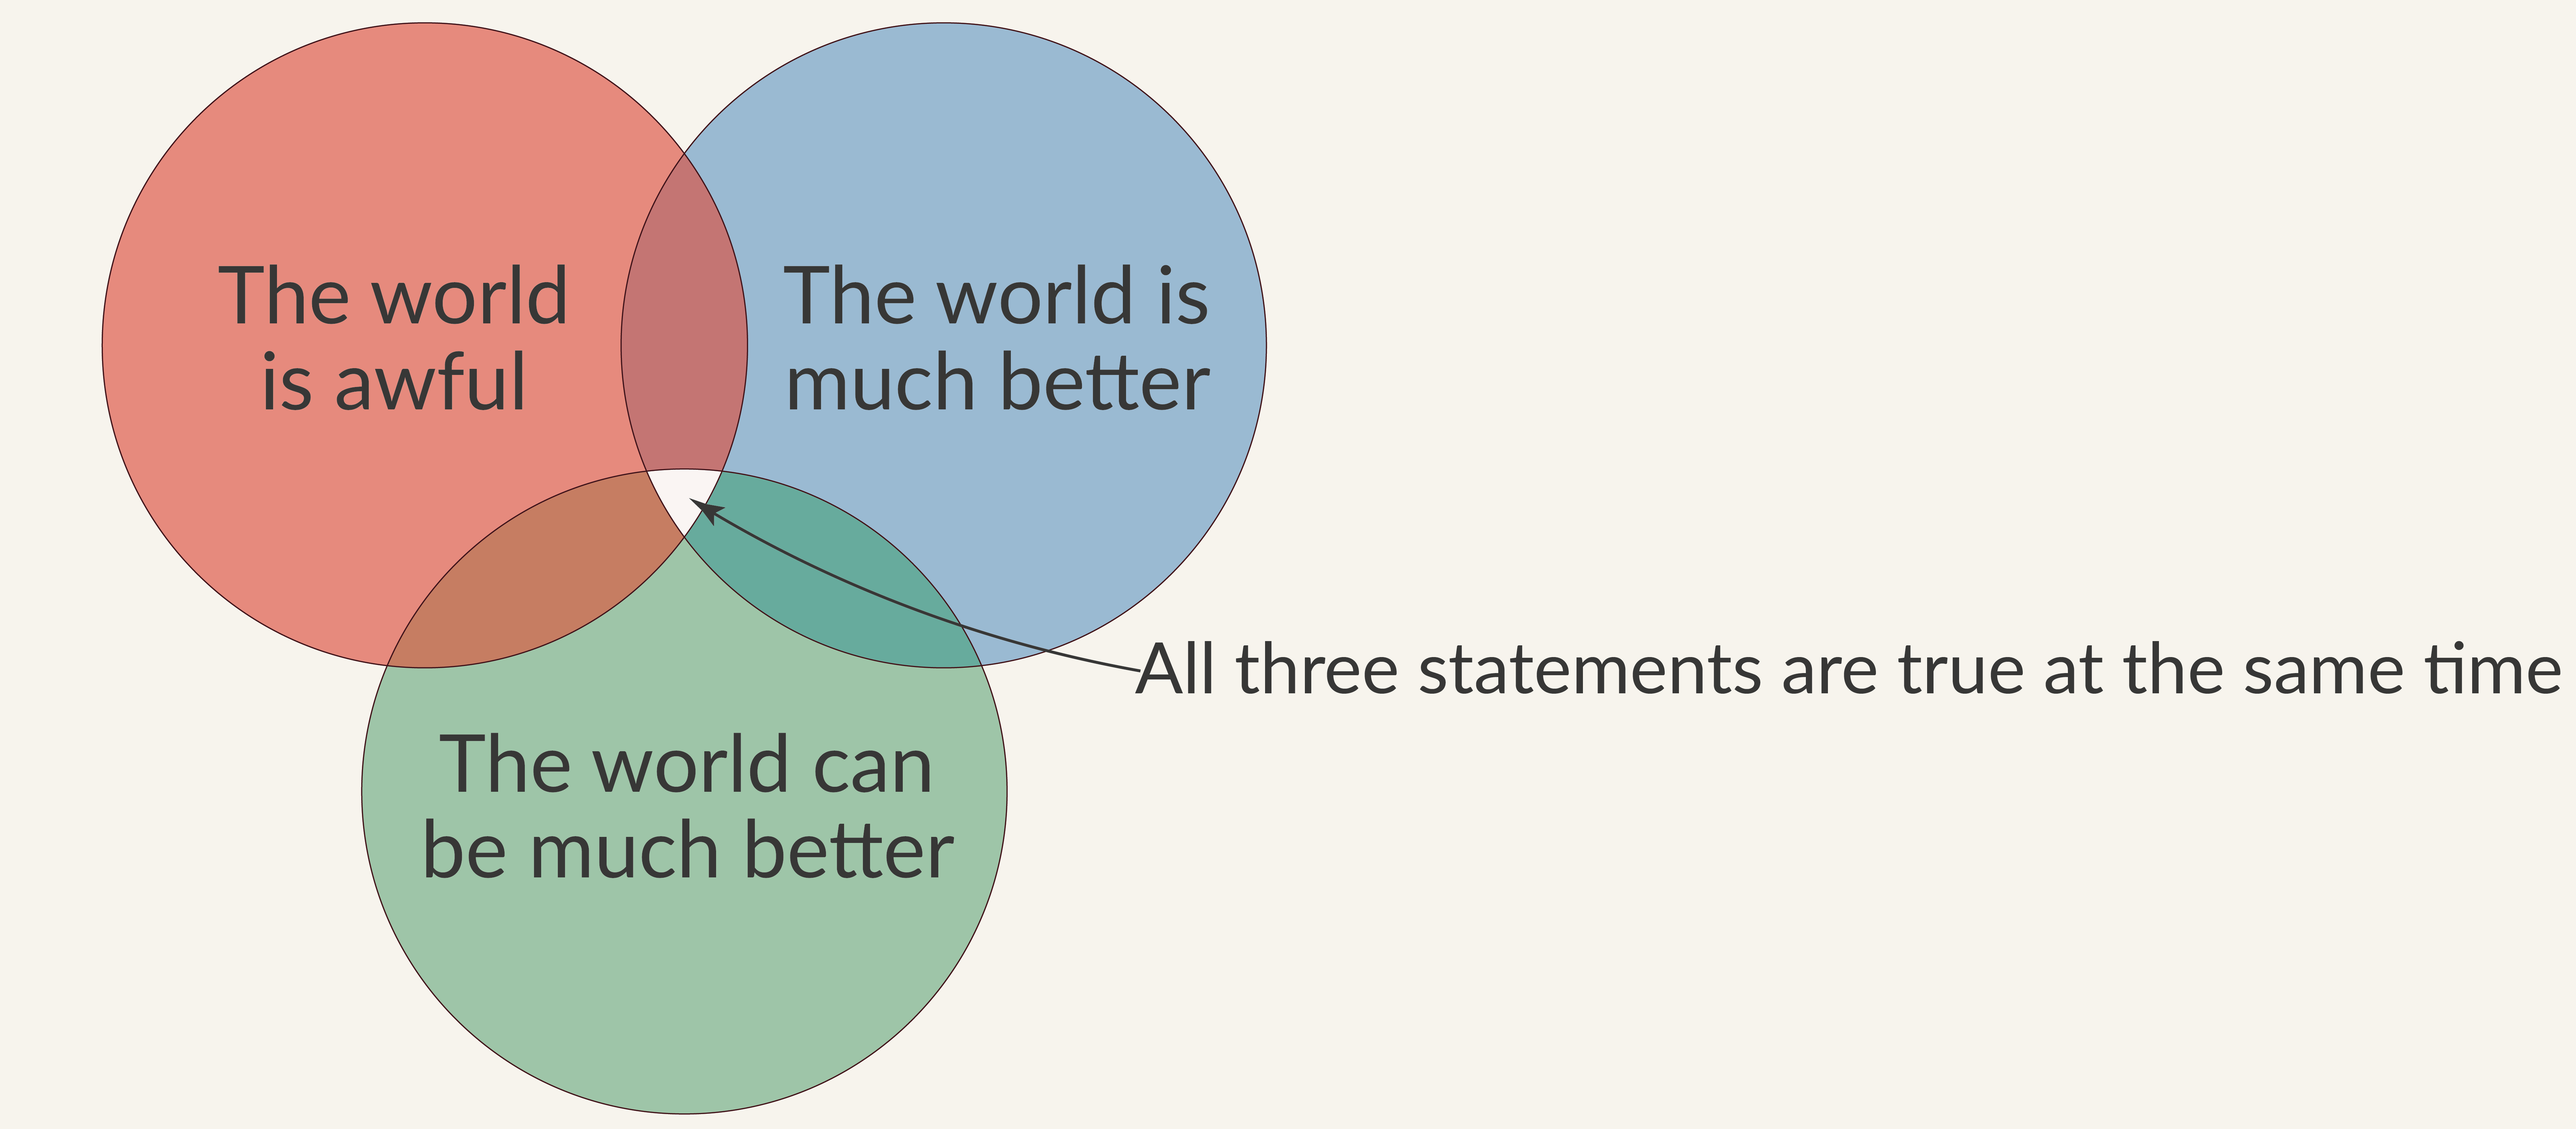
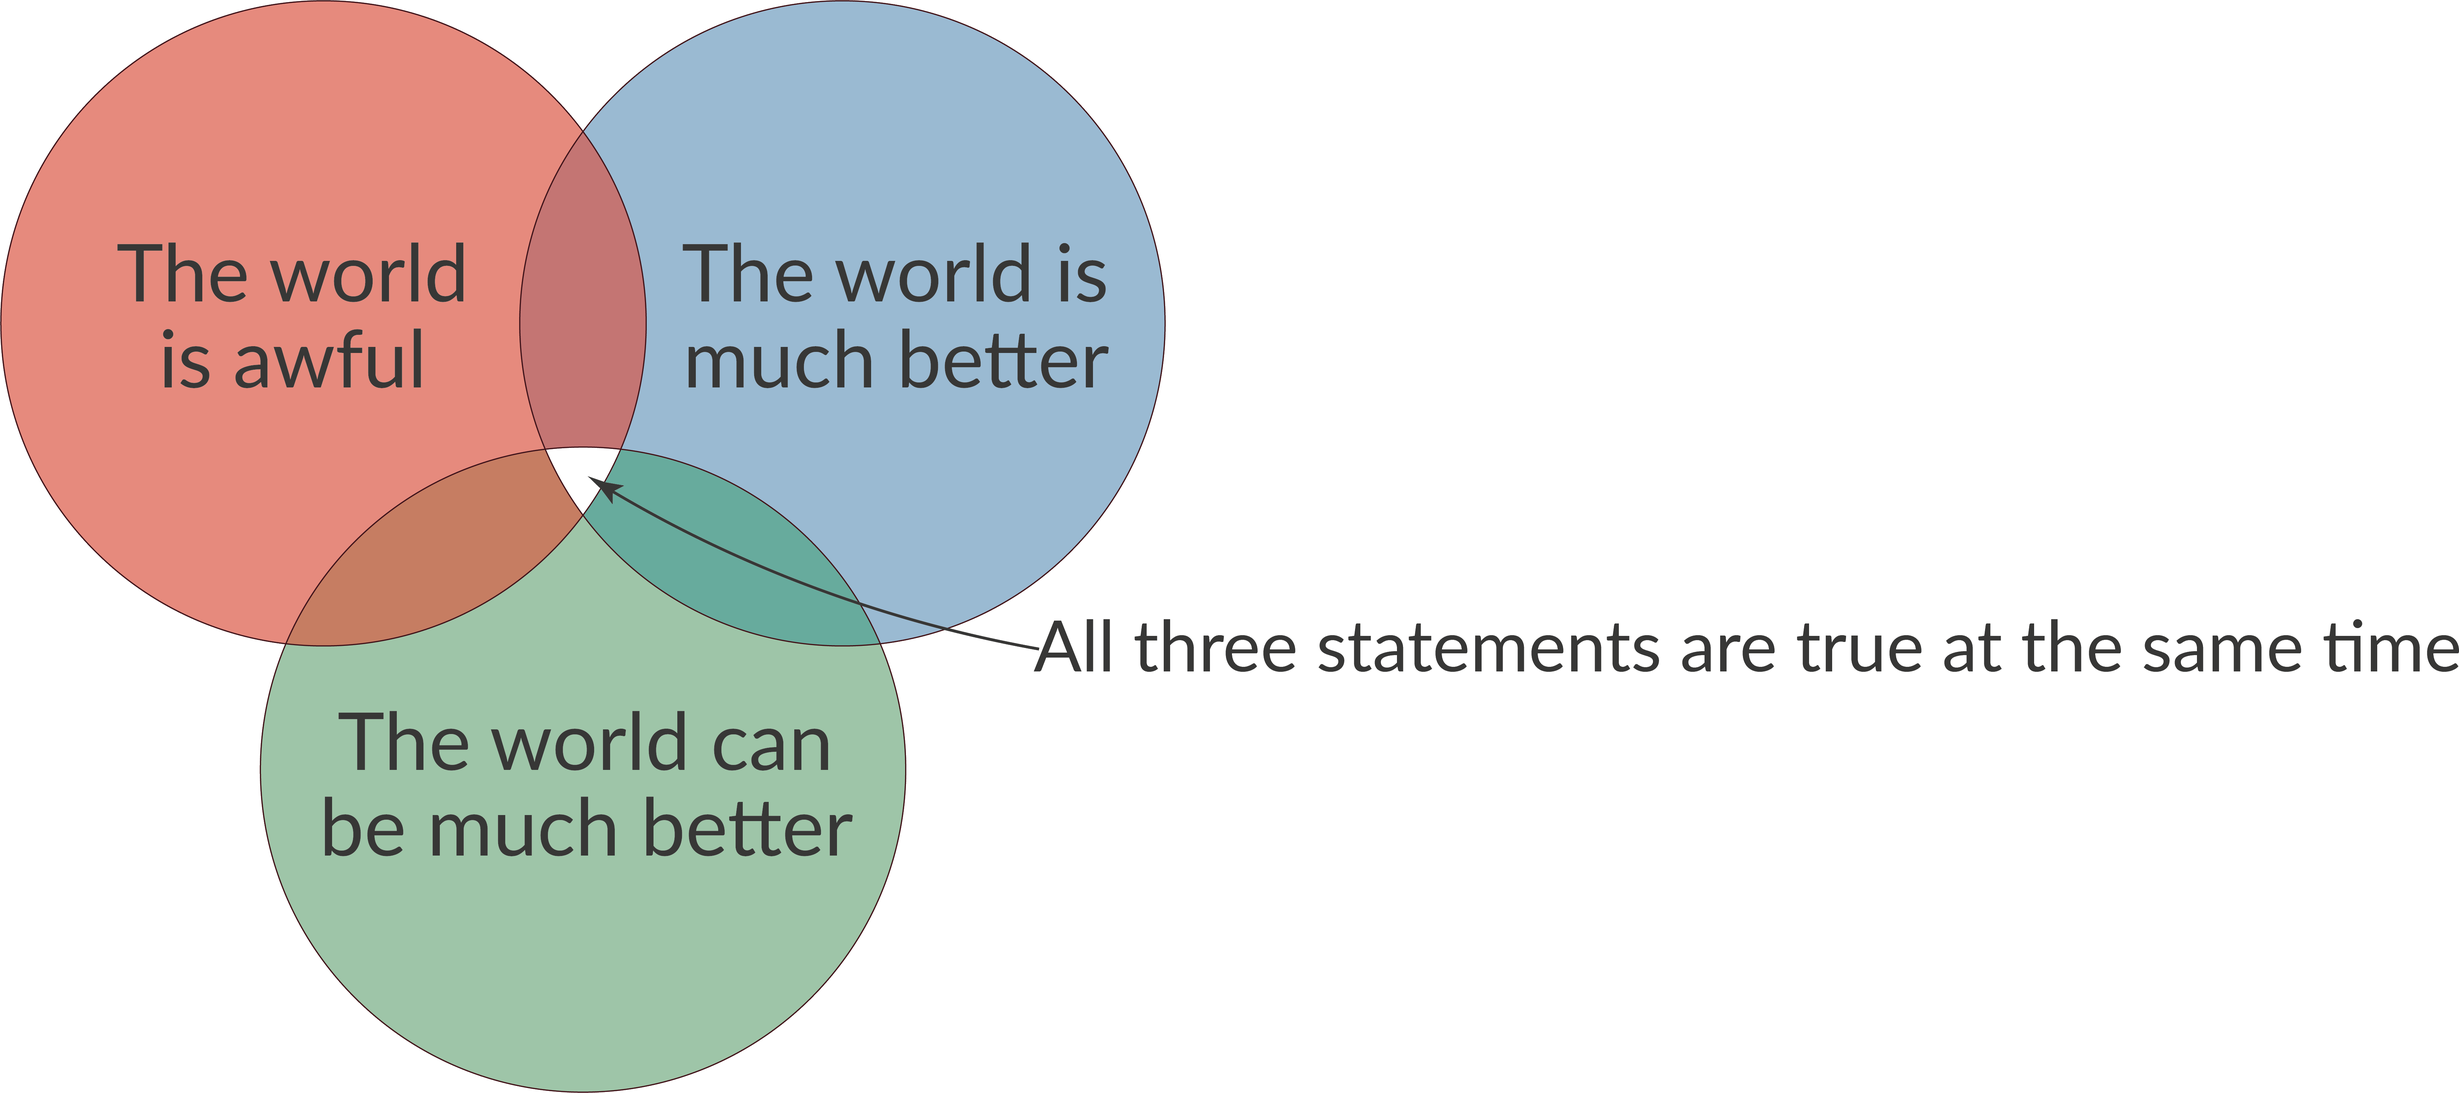
Polish layout spacing, typography, and visual consistency
Reduce inter-section gaps, standardize container widths and padding
across nav/hero/main/footer, normalize body text size via main
element inheritance, remove transparent background from Venn diagram,
standardize card backgrounds, increase footer text size, and clean
up redundant utility classes.

Changed region(s): [[0.0, 0.0, 1.0, 1.0]]

diff --git a/src/App.tsx b/src/App.tsx
@@ -23,7 +23,7 @@ export default function App() {
     <div className="min-h-screen bg-eaa-warm-100 font-sans text-eaa-neutral-950 selection:bg-eaa-teal-900 selection:text-white">
       {/* Navigation */}
       <header className="w-full bg-eaa-warm-50 relative z-50">
-        <nav className="max-w-6xl mx-auto px-8 py-4 flex justify-between items-center">
+        <nav className="max-w-7xl mx-auto px-6 lg:px-16 py-4 flex justify-between items-center">
           <div className="flex items-center">
             <a href={siteContent.links.mainWebsite} target="_blank" rel="noopener noreferrer">
               <img 
@@ -64,7 +64,7 @@ export default function App() {
           <div className="absolute inset-0 bg-gradient-to-r from-eaa-warm-100 from-40% md:from-30% lg:from-20% via-eaa-warm-100/60 to-transparent w-full"></div>
         </div>
 
-        <div className="relative z-10 max-w-6xl mx-auto px-8 w-full">
+        <div className="relative z-10 max-w-7xl mx-auto px-6 lg:px-16 w-full">
           <motion.div 
             initial={{ opacity: 0, y: 20 }}
             animate={{ opacity: 1, y: 0 }}
@@ -103,7 +103,7 @@ export default function App() {
       </section>
 
       {/* Main Content */}
-      <main className="max-w-4xl mx-auto px-8 py-24 space-y-32">
+      <main className="max-w-7xl mx-auto px-6 lg:px-16 py-24 space-y-24 text-lg md:text-xl leading-relaxed text-eaa-neutral-950">
         
         {/* The Gap Section */}
         <motion.section 
@@ -111,44 +111,42 @@ export default function App() {
           whileInView={{ opacity: 1, y: 0 }}
           viewport={{ once: true, margin: "-100px" }}
           transition={{ duration: 0.8 }}
-          className="space-y-8 py-12"
+          className="space-y-8"
         >
-          <div className="space-y-12 text-lg md:text-2xl leading-relaxed max-w-3xl">
-            <div className="space-y-8">
-              <div className="flex flex-col items-center md:items-start text-center md:text-left">
-                <Quote className="w-12 h-12 text-eaa-bronze-500 opacity-20 scale-x-[-1] mb-4" />
-                <h2 className="font-serif text-eaa-teal-900 text-3xl md:text-4xl leading-tight">
-                  {siteContent.theGap.quote}
-                </h2>
-              </div>
-              
-              <div className="py-4">
-                <img 
-                  src={awfulBetter} 
-                  alt="Venn diagram: The world is awful, The world is much better, The world can be much better" 
-                  className="w-full max-w-2xl mx-auto"
-                />
-              </div>
-
-              <div className="text-base md:text-lg text-eaa-neutral-950/70">
-                — {siteContent.theGap.citationAuthor},{" "}
-                <span className="italic">
-                  {siteContent.theGap.citationTitle}
-                </span>{" "}
-                <a
-                  href={siteContent.theGap.citationLink}
-                  target="_blank"
-                  rel="noopener noreferrer"
-                  className="underline decoration-1 underline-offset-4 hover:text-eaa-teal-700 transition-colors"
-                >{siteContent.theGap.citationSource}</a>
-              </div>
+          <div className="bg-white py-10 px-12 border border-eaa-warm-200 space-y-8">
+            <div className="flex flex-col items-center text-center">
+              <Quote className="w-12 h-12 text-eaa-bronze-500 opacity-20 scale-x-[-1] mb-4 self-start" />
+              <h2 className="font-serif text-eaa-teal-900 text-3xl md:text-4xl leading-tight">
+                The world is awful. The world is much better.<br />The world can be much better.
+              </h2>
             </div>
 
-            <div
-              className="text-eaa-neutral-950 space-y-6 text-base md:text-lg [&_p]:leading-relaxed"
-              dangerouslySetInnerHTML={{ __html: `<p>${siteContent.theGap.paragraphHtml}</p>` }}
-            />
+            <div className="py-4">
+              <img
+                src={awfulBetter}
+                alt="Venn diagram: The world is awful, The world is much better, The world can be much better"
+                className="w-full max-w-2xl mx-auto"
+              />
+            </div>
+
+            <div className="text-lg text-eaa-neutral-950/70 text-center">
+              — {siteContent.theGap.citationAuthor},{" "}
+              <span className="italic">
+                {siteContent.theGap.citationTitle}
+              </span>{" "}
+              <a
+                href={siteContent.theGap.citationLink}
+                target="_blank"
+                rel="noopener noreferrer"
+                className="underline decoration-1 underline-offset-4 hover:text-eaa-teal-700 transition-colors"
+              >{siteContent.theGap.citationSource}</a>
+            </div>
           </div>
+
+          <div
+            className="space-y-6"
+            dangerouslySetInnerHTML={{ __html: `<p>${siteContent.theGap.paragraphHtml}</p>` }}
+          />
         </motion.section>
 
         {/* The Syllabus Section */}
@@ -163,9 +161,7 @@ export default function App() {
           <div className="grid md:grid-cols-2 gap-12 items-center">
             <div className="space-y-6">
               <h2 className="font-serif text-3xl md:text-4xl text-eaa-teal-900">{siteContent.theSyllabus.title}</h2>
-              <p className="text-lg md:text-xl leading-relaxed">
-                {siteContent.theSyllabus.description1}
-              </p>
+              <p>{siteContent.theSyllabus.description1}</p>
             </div>
             <div className="aspect-[4/3] overflow-hidden bg-eaa-warm-200">
               <img 
@@ -176,21 +172,20 @@ export default function App() {
             </div>
           </div>
 
-          <div className="bg-white p-8 border border-eaa-warm-200">
+          <div className="bg-white py-10 px-12 border border-eaa-warm-200">
             <h3 className="font-serif text-2xl text-eaa-teal-900 mb-6">{siteContent.theSyllabus.topicsTitle}</h3>
-            <ul className="grid md:grid-cols-2 gap-x-12 gap-y-4 text-lg">
+            <ul className="grid md:grid-cols-2 gap-x-12 gap-y-4 list-disc marker:text-eaa-bronze-500 pl-6">
               {siteContent.theSyllabus.topics.map((topic, i) => (
-                <li key={i} className="flex items-start gap-3">
-                  <span className="text-eaa-bronze-500 mt-1.5">•</span>
-                  <span>{topic}</span>
+                <li key={i}>
+                  {topic}
                 </li>
               ))}
             </ul>
           </div>
 
           <div className="space-y-4">
-            <p className="text-lg leading-relaxed [&_a]:underline [&_a]:underline-offset-4 [&_a]:text-eaa-teal-900 [&_a]:hover:text-eaa-teal-700 [&_a]:transition-colors" dangerouslySetInnerHTML={{ __html: siteContent.theSyllabus.curriculumCreditHtml }} />
-            <p className="text-eaa-neutral-950">{siteContent.theSyllabus.description2}</p>
+            <p className="[&_a]:underline [&_a]:underline-offset-4 [&_a]:text-eaa-teal-900 [&_a]:hover:text-eaa-teal-700 [&_a]:transition-colors" dangerouslySetInnerHTML={{ __html: siteContent.theSyllabus.curriculumCreditHtml }} />
+            <p>{siteContent.theSyllabus.description2}</p>
           </div>
         </motion.section>
 
@@ -205,20 +200,20 @@ export default function App() {
           <hr className="border-eaa-warm-200" />
           <h2 className="font-serif text-3xl md:text-4xl text-eaa-teal-900">{siteContent.howItWorks.title}</h2>
           
-          <div className="grid md:grid-cols-3 gap-8">
+          <div className="grid md:grid-cols-3 gap-12">
             {siteContent.howItWorks.steps.map((item) => (
               <div key={item.step} className="flex flex-col items-center text-center space-y-4">
                 <div className="w-12 h-12 rounded-full bg-eaa-teal-900 text-white flex items-center justify-center text-lg font-bold font-serif">
                   {item.step}
                 </div>
                 <h4 className="font-serif text-xl font-bold text-eaa-teal-900">{item.title}</h4>
-                <p className="text-eaa-neutral-950">{item.desc}</p>
+                <p>{item.desc}</p>
               </div>
             ))}
           </div>
 
           {siteContent.howItWorks.note && (
-            <p className="text-center text-eaa-neutral-950 italic">
+            <p className="text-center italic">
               {siteContent.howItWorks.note}
             </p>
           )}
@@ -236,7 +231,7 @@ export default function App() {
           <div className="grid md:grid-cols-2 gap-12 items-center">
             <div className="space-y-8">
               <h2 className="font-serif text-3xl md:text-4xl text-eaa-teal-900">{siteContent.whosBehindThis.title}</h2>
-              <div className="space-y-6 text-lg text-eaa-neutral-950 leading-relaxed [&_a]:underline [&_a]:underline-offset-4 [&_a]:text-eaa-teal-900 [&_a]:hover:text-eaa-teal-700 [&_a]:transition-colors">
+              <div className="space-y-6 [&_a]:underline [&_a]:underline-offset-4 [&_a]:text-eaa-teal-900 [&_a]:hover:text-eaa-teal-700 [&_a]:transition-colors">
                 {siteContent.whosBehindThis.paragraphsHtml.map((html, i) => (
                   <p key={i} dangerouslySetInnerHTML={{ __html: html }} />
                 ))}
@@ -262,7 +257,7 @@ export default function App() {
           className="space-y-12"
         >
           <hr className="border-eaa-warm-200" />
-          <div className="bg-eaa-warm-50 p-4 sm:p-8 md:p-12 border border-eaa-warm-200 overflow-hidden grid md:grid-cols-2 gap-12 items-center">
+          <div className="bg-white p-4 sm:p-8 md:p-12 border border-eaa-warm-200 overflow-hidden grid md:grid-cols-2 gap-12 items-center">
             <div className="aspect-square overflow-hidden bg-eaa-warm-200">
               <img 
                 src={photoKevin} 
@@ -309,7 +304,7 @@ export default function App() {
                 {siteContent.whatComesNext.items.map((item, i) => (
                   <li key={i} className="flex items-start gap-4">
                     <div className="mt-1.5 w-1.5 h-1.5 rounded-full bg-eaa-bronze-500 shrink-0" />
-                    <p className="text-lg leading-relaxed">
+                    <p>
                       {item.link ? (
                         <a href={item.link} target="_blank" rel="noopener noreferrer" className="text-eaa-teal-900 font-bold underline underline-offset-4 hover:text-eaa-teal-700 transition-colors">
                           {item.title}
@@ -338,7 +333,6 @@ export default function App() {
           whileInView={{ opacity: 1, y: 0 }}
           viewport={{ once: true, margin: "-100px" }}
           transition={{ duration: 0.8 }}
-          className="pt-16"
         >
           <div className="bg-eaa-teal-900 text-white p-8 md:p-16 rounded-sm shadow-xl text-center space-y-8">
             <div className="space-y-4">
@@ -368,7 +362,7 @@ export default function App() {
           whileInView={{ opacity: 1, y: 0 }}
           viewport={{ once: true, margin: "-100px" }}
           transition={{ duration: 0.8 }}
-          className="space-y-12 pb-12"
+          className="space-y-12"
         >
           <hr className="border-eaa-warm-200" />
           <h2 className="font-serif text-3xl md:text-4xl text-eaa-teal-900">{siteContent.faq.title}</h2>
@@ -390,7 +384,7 @@ export default function App() {
                       exit={{ height: 0, opacity: 0 }}
                       transition={{ duration: 0.3 }}
                     >
-                      <div className="px-6 pb-6 text-eaa-neutral-950 leading-relaxed">
+                      <div className="px-6 pb-6 leading-relaxed">
                         {faq.a}
                       </div>
                     </motion.div>
@@ -401,7 +395,7 @@ export default function App() {
           </div>
         </motion.section>
 
-        <p className="text-center text-eaa-neutral-950/70 pb-24">
+        <p className="text-center text-eaa-teal-900 font-medium py-6 border-t border-b border-eaa-warm-200">
           {siteContent.contact.text}{" "}
           <a href={`mailto:${siteContent.contact.email}`} className="underline underline-offset-4 hover:text-eaa-teal-700 transition-colors">
             {siteContent.contact.email}
@@ -424,11 +418,11 @@ export default function App() {
       </div>
 
       {/* Footer */}
-      <footer className="bg-eaa-neutral-700 text-eaa-neutral-200">
-        <div className="max-w-6xl mx-auto px-8 py-16">
+      <footer className="bg-eaa-neutral-700 text-eaa-neutral-200 text-base md:text-lg">
+        <div className="max-w-7xl mx-auto px-6 lg:px-16 py-16">
           <div className="grid grid-cols-1 md:grid-cols-3 gap-12 lg:gap-16">
             {/* Left column: Logo + legal */}
-            <div className="space-y-8">
+            <div className="space-y-12">
               <a href={siteContent.links.mainWebsite} target="_blank" rel="noopener noreferrer">
                 <img
                   src={logoWhite}
@@ -437,7 +431,7 @@ export default function App() {
                 />
               </a>
               <p
-                className="text-xs text-eaa-neutral-200/70 leading-relaxed [&_a]:underline [&_a]:underline-offset-2 [&_a]:hover:text-white [&_a]:transition-colors"
+                className="text-sm text-eaa-neutral-200/70 leading-relaxed [&_a]:underline [&_a]:underline-offset-2 [&_a]:hover:text-white [&_a]:transition-colors"
                 dangerouslySetInnerHTML={{ __html: siteContent.footer.legalTextHtml }}
               />
             </div>
@@ -445,7 +439,7 @@ export default function App() {
             {/* Middle column: Contact + social */}
             <div className="space-y-6">
               <h3 className="font-serif text-lg text-white border-b border-eaa-teal-700 pb-2 w-fit">Contact Information</h3>
-              <ul className="space-y-3 text-sm">
+              <ul className="space-y-3">
                 <li className="flex items-start gap-3">
                   <MapPin className="w-4 h-4 text-eaa-teal-700 mt-0.5 shrink-0" />
                   <span className="text-eaa-neutral-200">{siteContent.footer.contact.address}</span>
@@ -489,7 +483,7 @@ export default function App() {
             {/* Right column: Key Pages */}
             <div className="space-y-6">
               <h3 className="font-serif text-lg text-white border-b border-eaa-teal-700 pb-2 w-fit">Key Pages</h3>
-              <ul className="space-y-3 text-sm">
+              <ul className="space-y-3">
                 {siteContent.footer.keyPages.map((page) => (
                   <li key={page.label}>
                     <a href={page.url} target="_blank" rel="noopener noreferrer" className="text-eaa-neutral-200 hover:text-white transition-colors underline underline-offset-4 decoration-eaa-neutral-200/20">
@@ -504,7 +498,7 @@ export default function App() {
 
         {/* Bottom bar */}
         <div className="border-t border-white/10">
-          <div className="max-w-6xl mx-auto px-8 py-4 flex flex-col sm:flex-row justify-between items-center gap-2 text-xs text-eaa-neutral-200/60">
+          <div className="max-w-7xl mx-auto px-6 lg:px-16 py-4 flex flex-col sm:flex-row justify-between items-center gap-2 text-sm text-eaa-neutral-200/60">
             <span>{siteContent.footer.copyright}</span>
             <div className="flex gap-4">
               <a href={siteContent.footer.privacyPolicy} target="_blank" rel="noopener noreferrer" className="hover:text-white transition-colors">Privacy Policy</a>

diff --git a/src/index.css b/src/index.css
@@ -17,7 +17,7 @@
   --color-eaa-neutral-400: #888888;
   --color-eaa-neutral-700: #4f4f4f;
   --color-eaa-neutral-800: #454545;
-  --color-eaa-neutral-950: #151515;
+  --color-eaa-neutral-950: #333333;
   
   --color-eaa-bronze-500: #ad7f62;
 }
